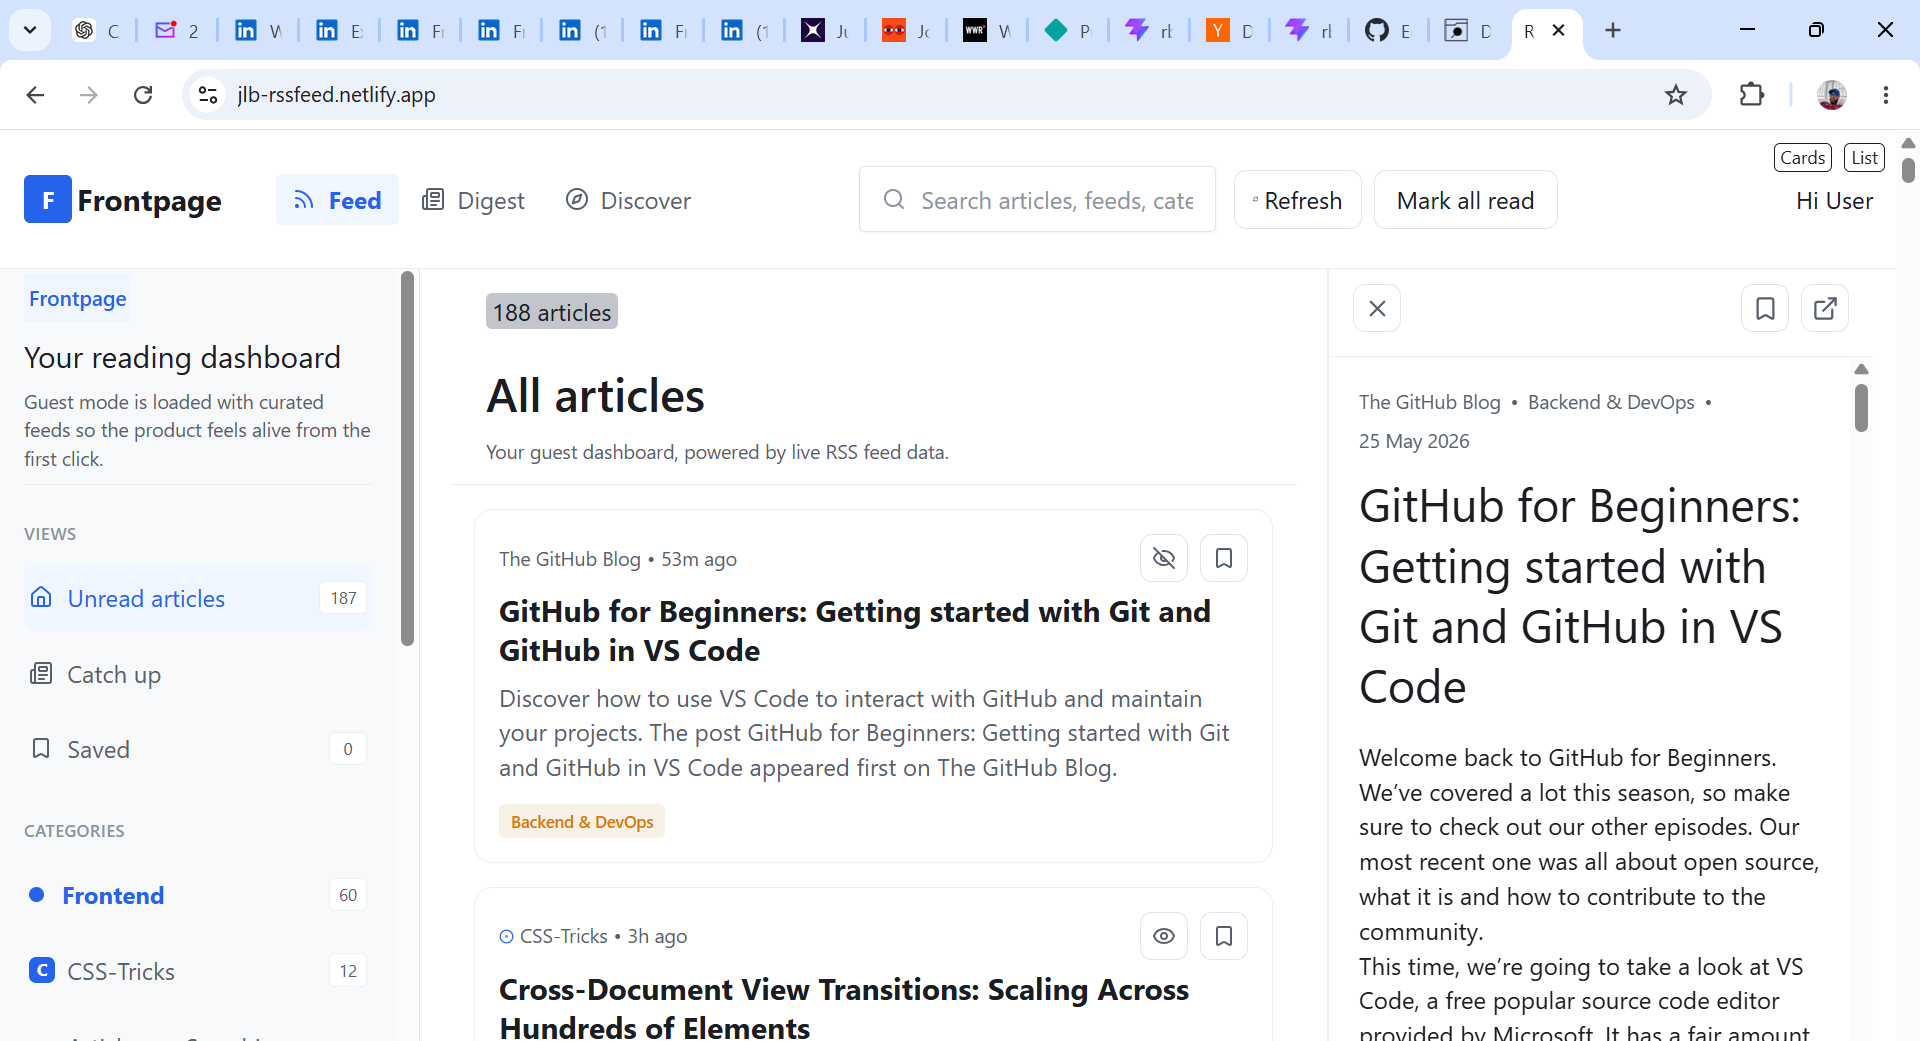
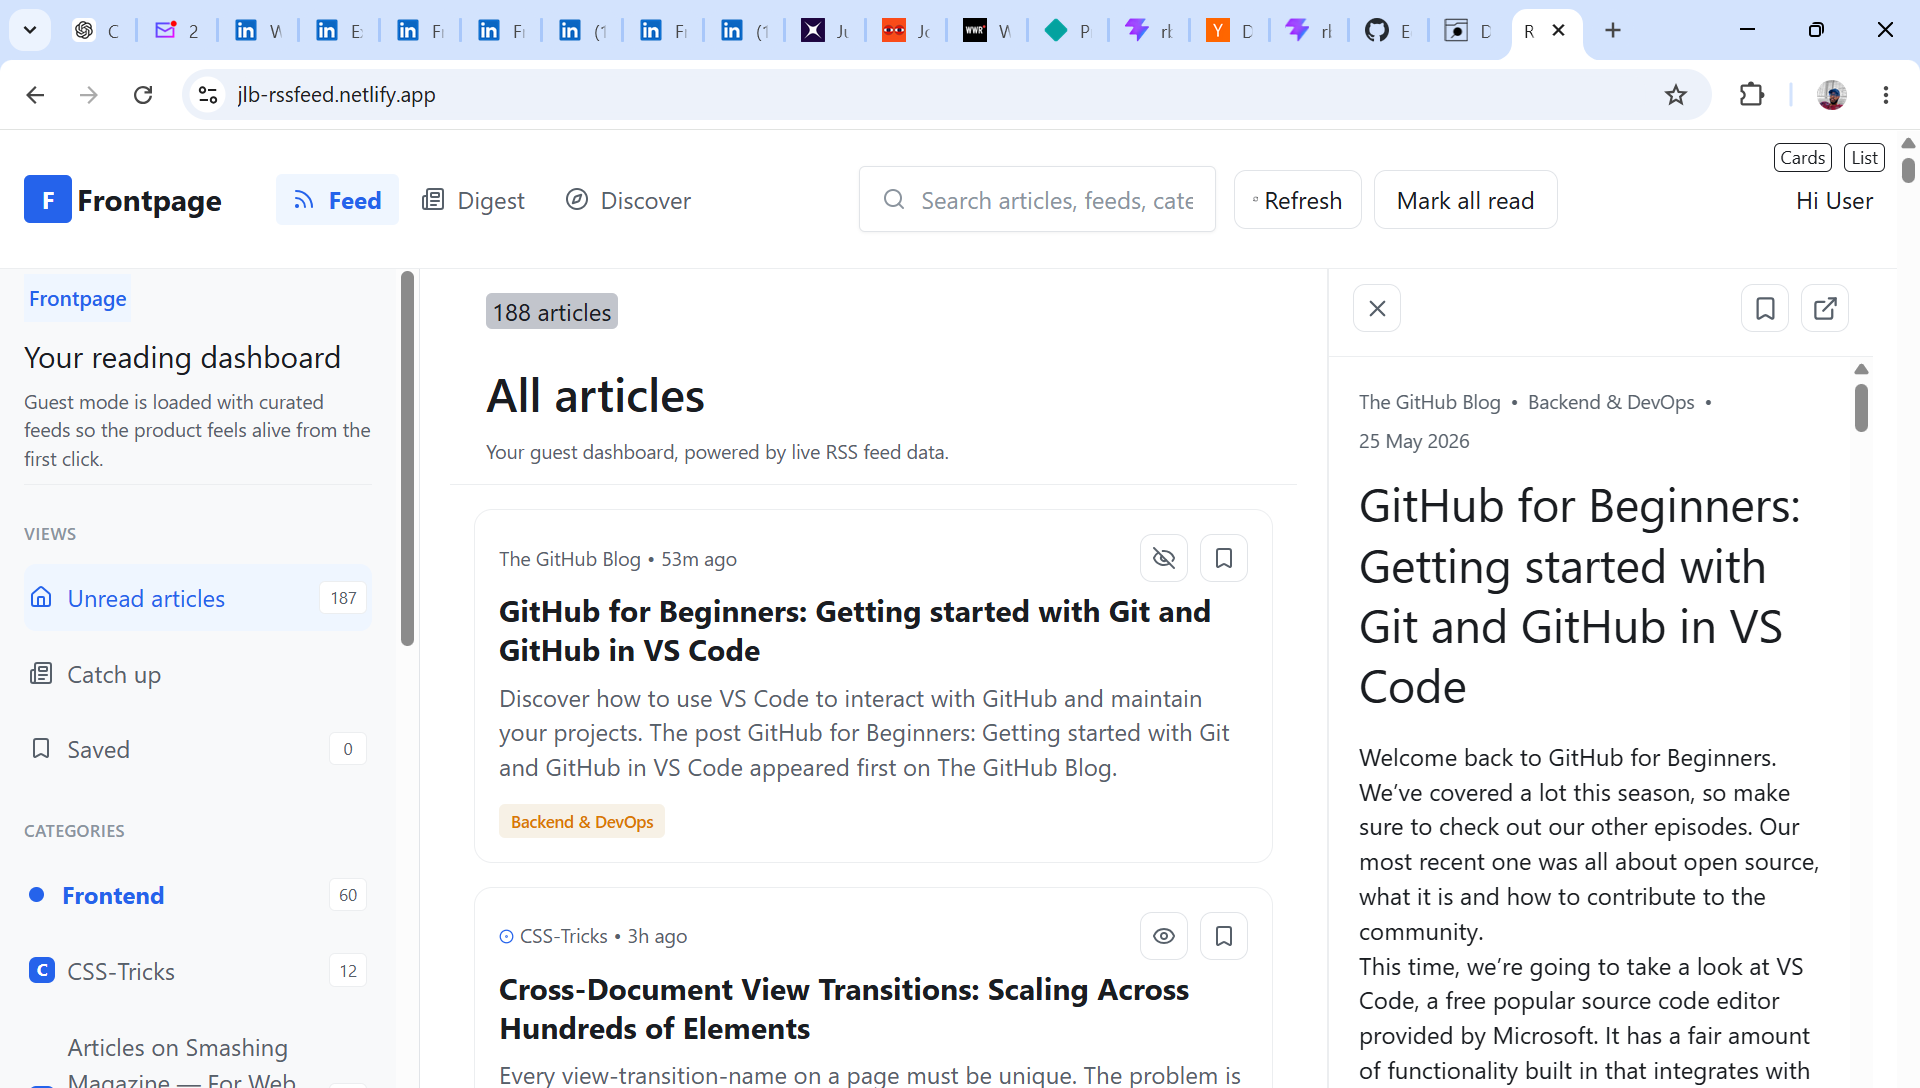
updated projects

diff --git a/src/data.js b/src/data.js
@@ -6,7 +6,7 @@ const projects = [
     liveDemo: true,
     privateCode: true,
     description: " A modern enterprise resource planning application built to manage business operations, employee workflows, approvals, and role based access control through a centralized system.",
-    stack: ["React", "React Native", "TypeScript", "Mongoose", "Redux ToolKit"],
+    stack: ["React", "React Native", "TypeScript", "Express", "Node.js", "Mongoose", "Redux ToolKit"],
     demo: "https://jlb-rbac-erp.netlify.app",
     repo: "https://github.com/Jlbspyder/ERP_APP"
   },
@@ -23,14 +23,14 @@ const projects = [
   },
     {
     id: 3,
-    name: "RSS Feed Engine",
+    name: "RSS Feed Aggregator",
     image:  "/rss-feed.png",
     liveDemo: true,
     privateCode: false,
-    description: " A modular RSS aggregation API built with Node.js and Express that fetches, parses, normalizes, caches, and serves RSS/XML feed data from multiple sources. ",
-    stack: ["Node", "Express", "RSS Parser", "Jest", "Nodemon"],
-    demo: "https://rss-feed-engine.onrender.com/api/feeds",
-    repo: "https://github.com/Jlbspyder/rss-feed-engine"
+    description: " A full-stack customizable content aggregator that pulls RSS and Atom feeds into one well designed reading dashboard. It features user authentication and caching of feed data.",
+    stack: ["React", "Express", "Neon", "Prisma", "JWT", "Tailwind CSS"],
+    demo: "https://jlb-rssfeed.netlify.app",
+    repo: "https://github.com/Jlbspyder/RSS-FEED"
   },
    {
     id: 4,